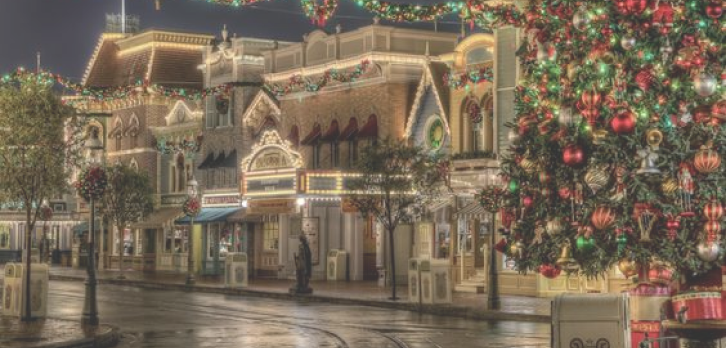
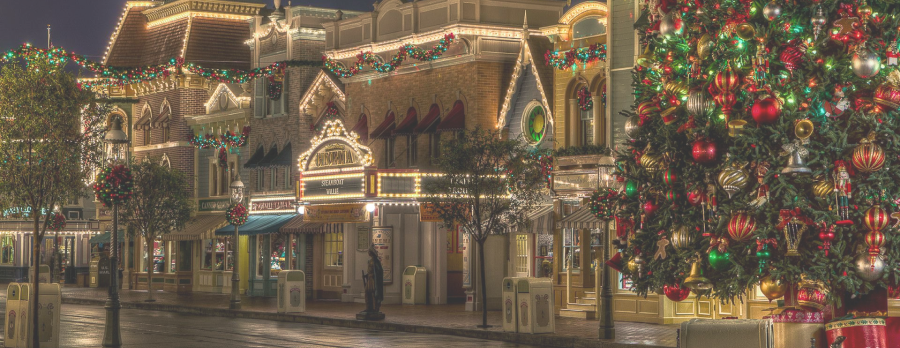
hice todo de vuelta

diff --git a/index.html b/index.html
@@ -16,70 +16,44 @@
 </head>
 <body>
 
-    <header class="row container-fluid">
+    <header class="row container-fluid" id="header">
 
         <div id="contMenu">
-            <div class="col-lg-4 contLogo">
+            <div class="col-lg-4 col-sm-12 contLogo">
                 <img id="logo" src="assets/imagenes/logos/logo.png" alt="">
             </div>
-            <nav class="col-lg-8">
+            <nav class="col-lg-8 col-sm-12">
                 <ul>
-                    <li><a href="">Secciones</a>
-                        <ul>
-                            <li><a href="">Navidad</a></li>
-                            <li><a href="">Halloween</a></li>
-                            <li><a href="">Pascuas</a></li>
-                            <li><a href="">Día de muertos</a></li>
-                        </ul>
-                    </li>
+                    <li><a href="">Tienda Virtual</a></li>
+                    <li><a href="">Recetas</a></li>
                     <li><a href="">Sucursales</a></li>
                     <li><a href="">Iniciar Sesión</a></li>
-                    <li><a href="">Registro</a></li>
-
+                    <li><a href="">Registrarse</a></li>
                 </ul>
             </nav>
         </div>
         
     </header>
 
-    <main class="row container-fluid">
-
-        <div class="contCarrusel">
-            <div id="carouselExampleSlidesOnly" class="carousel slide col-lg-12" data-bs-ride="carousel">
-                <div class="carousel-inner">
-                <div class="carousel-item active">
-                    <img src="assets/imagenes/navidad.png" class="d-block w-100" alt="...">
-                </div>
-                <div class="carousel-item">
-                    <img src="assets/imagenes/halloween.png" class="d-block w-100" alt="...">
-                </div>
-                <div class="carousel-item">
-                    <img src="assets/imagenes/pascua.png" class="d-block w-100" alt="...">
-                </div>
-                <div class="carousel-item">
-                    <img src="assets/imagenes/diademuertos.png" class="d-block w-100" alt="...">
-                </div>
-                </div>
-            </div>
-        </div>
-
-
-        <div id="contFotos">
-            <div class="row container-fluid col-lg-12">
-                <img class="img" src="assets/imagenes/img1.png" alt="">
-            </div>
-            <div class="row container-fluid col-lg-12">
-                <img class="img" src="assets/imagenes/img2.png" alt="">
-            </div>
-            <div class="row container-fluid col-lg-12">
-                <img class="img" src="assets/imagenes/img3.png" alt="">
-            </div>
-            <div class="row container-fluid col-lg-12">
-                <img class="img" src="assets/imagenes/img4.png" alt="">
-            </div>
+    <main class="row container-fluid" id="main">
+        <div class="contImg1 col-lg-12 col-sm-12">
+            <img id="img1" src="assets/imagenes/navidad.png" alt="">
         </div>
     </main>
 
+
+
+
+
+
+
+
+
+
+
+    
+
+    <!--
     <footer class="row container-fluid ">
         <div class="contFooter">
             <nav>
@@ -106,7 +80,7 @@
     
     
     </footer>
-
+    -->
 
 </body>
 </html>

diff --git a/style/main.css b/style/main.css
@@ -7,6 +7,15 @@ body{
     background-color: 		rgb(203, 170, 151);
 }
 
+#main{
+    padding: 0 !important;
+    margin: 0 !important;
+}
+
+#header{
+    padding: 0;
+    margin: 0;
+}
 
 #contMenu {
     width: 100%;
@@ -21,8 +30,8 @@ body{
 .contLogo {
     padding: 0px 0px 0px 10px;
     margin: 0; 
-    width: 70px;
-    height: 75px;
+    width: 60px;
+    height: 55px;
 }
 
 #logo{
@@ -74,49 +83,43 @@ body{
     width: 150px;
 }
 
-#contMenu nav ul ul li {
-    display: block;
-    font-size: 20px;
-}
 
-#contMenu nav ul ul li a {
-    padding: 10px;
-    white-space: nowrap;
-}
-
-#contMenu nav ul li:hover ul {
-    display: block;
-}
-
-.contCarrusel{
-    padding: 10px 0px 25px 10px;
+.contImg1{
+    padding: 0;
     width: 100%;
-    height: auto;
-    display: flex;
-    align-content: center;
-    justify-content: center;
+    height: 450px;
 }
 
-.carousel{
-    width: 46%;
+#img1{
+    width: 100%;
     height: 100%;
-    z-index: 1;
 }
 
-.contFotos{
-    width: 100%;
-    height: 100px;
-    display: flex;
 
-    align-items: center;
-    justify-content: center;
-}
 
-.img{
-    width: 35%;
-    height: 30%;
 
-}
+
+
+
+
+
+
+
+
+
+
+
+
+
+
+
+
+
+
+
+
+
+
 
 footer {
     width: 100%;
@@ -197,11 +200,6 @@ footer ul li a:hover {
     font-size: 14px;
     padding: 10px;
     color: rgb(232, 210, 197);
-}
-
-.row {
-    margin-right: 0;
-    margin-left: 0;
 }
 
 
